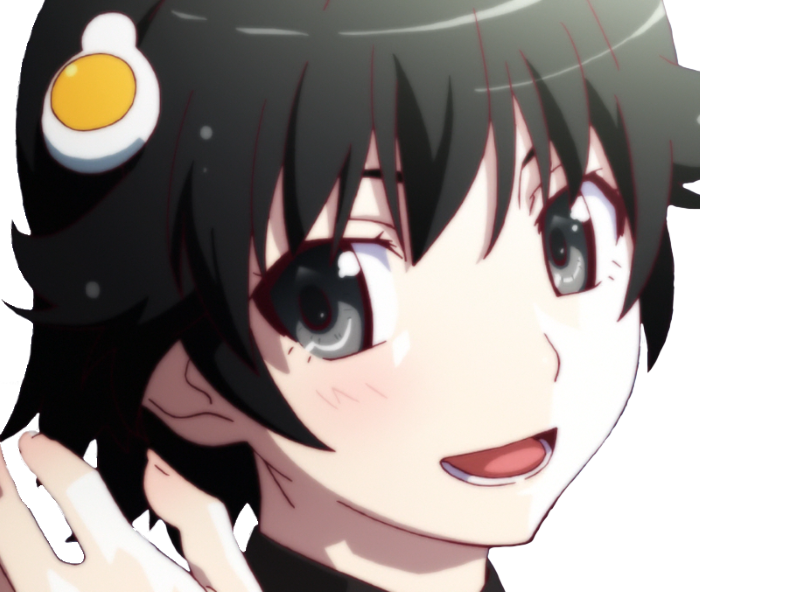
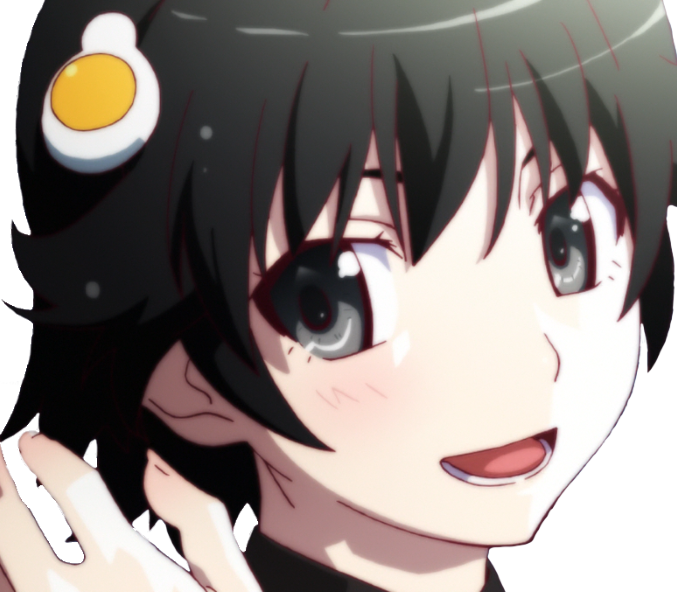
Updated Mascots image sizes and padding
Updated Mascots image sizes and padding
set the mascots to be a fixed size instead of auto adjusting. This is a
temporary fix

diff --git a/js/mascots-control.js b/js/mascots-control.js
@@ -23,7 +23,7 @@ function removeMascot() {
 $(document).ready(function(event) {
     var mascotEnable    = true;
 
-    var mascot          = mascotPath + mascotList[Math.floor(Math.random() * mascotList.length)];
+    var mascot  = mascotPath + mascotList[Math.floor(Math.random() * mascotList.length)];
     var mascotMinWidth  = 750;
 
     if ( mascotEnable ) {

diff --git a/general.css b/general.css
@@ -28,7 +28,7 @@ main {
     display: inline-block;
     min-width: 500px;
     font-size: 12px;
-    background-size: contain;
+    background-size: 300px 400px;
     background-repeat: no-repeat;
     border-width: 1px;
     border-style: solid;
